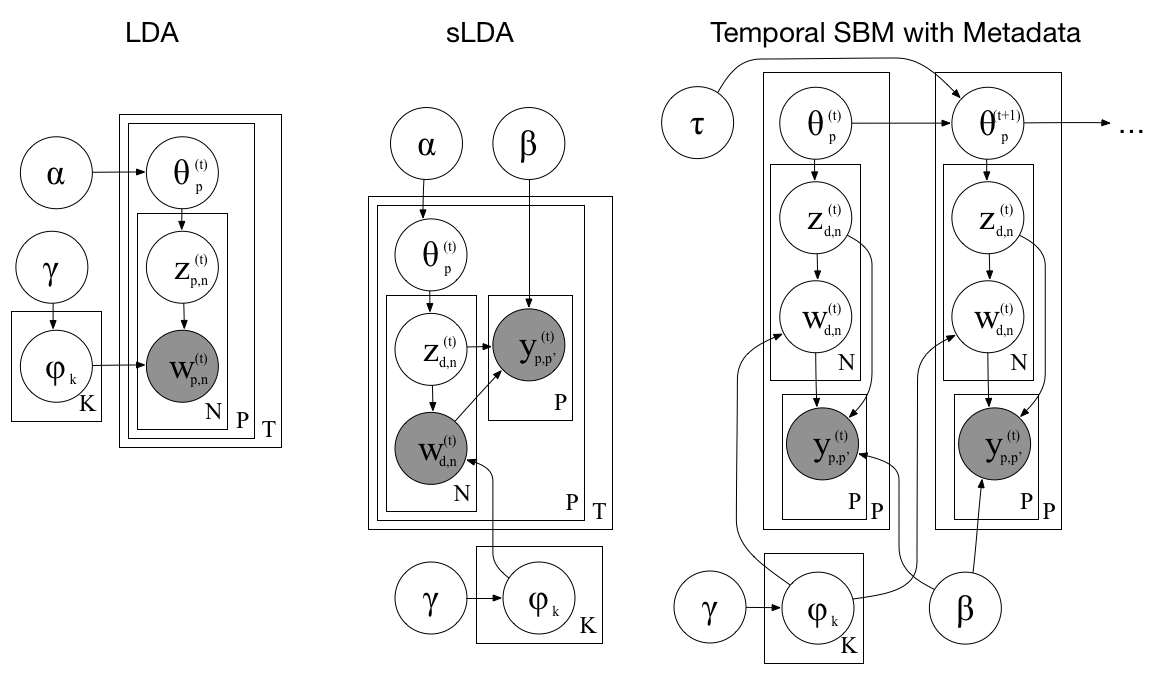
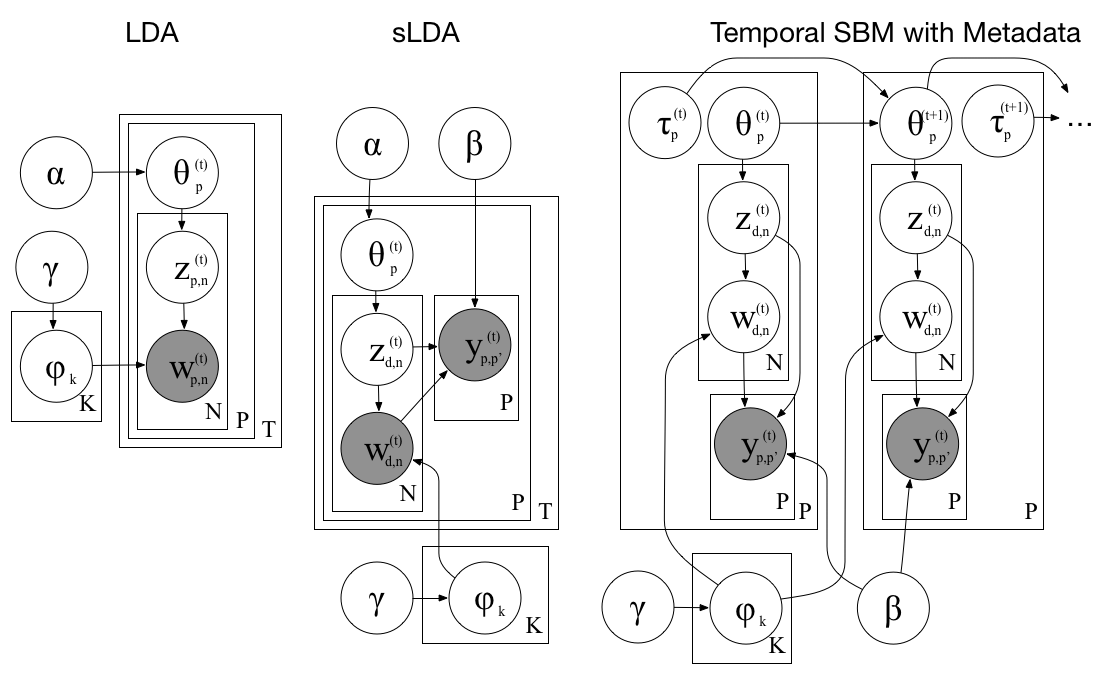
adding title

diff --git a/google/proposal.tex b/google/proposal.tex
@@ -13,14 +13,20 @@
 
 \begin{document}
 
+\begin{center}
+{\bf Predicting Betrayal in Online Games}
+\noindent\rule{2cm}{0.4pt}
+\end{center}
+
 The prisoner's dilemma is elegant in its simplicity: two
 prisoners---denied communication---must decide whether to cooperate
 with each other or defect.  This foundational thought experiment of
 game theory has helped understand many real world scenarios: \dots .
 Despite its power, the prisoner's dilemma is woefully unrealistic.
 Cooperation and betrayal do not happen in a cell cut off from the rest
-of the world.  Instead, it is mediated by communication: promises are
-made, then broken, and met with recriminations.
+of the world.  Instead, real interactions are mediated by
+communication: promises are made, then broken, and met with
+recriminations.
 
 We propose to study the role of \emph{language} in understanding
 betrayal and cooperation in the game of {\bf Diplomacy}.  Diplomacy,
@@ -54,7 +60,7 @@ probabilistic model to explain and predict the actions of players.
 Diplomacy begins in 1914 with players casting themselves as the
 European powers at the eve of the first world war: England, Germany,
 France, Russia, Austria, Italy, and the Ottoman Empire.  The goal of
-the game (like other wargames such as Risk or Axis \& Allies) is to
+the game (like other war games such as Risk or Axis \& Allies) is to
 capture all of the territories on the game board
 (Figure~\ref{fig:board}).  The game consists of two
 phases: \emph{diplomacy} and \emph{orders}.
@@ -63,7 +69,7 @@ phases: \emph{diplomacy} and \emph{orders}.
 \label{sec:mechanics}
 
 We begin with the order phase, which is more conventional.  In the
-order phase, each of the players write down their orders for their
+order phase, each of the players writes down their orders for their
 units (e.g., a unit can move to an adjacent square if it unoccupied).
 A player writes down all of the orders they want to execute.  For
 example, Germany may make the following moves:
@@ -74,10 +80,10 @@ example, Germany may make the following moves:
 \end{itemize*}
 
 The orders for all users are resolved through a set of rules that are
-beyond our scope.  The important elements of the game mechanics are:
-moves happen simulteneously, there is no randomness, and ties favor
-defenders.  To dislodge an opposing force, an attacker must have
-numerical superiority.
+beyond the scope of this document.  The important elements of the game
+mechanics are: moves happen simultaneously, there is no randomness,
+and ties favor defenders.  To dislodge an opposing force, an attacker
+must have numerical superiority.
 
 This is accomplished through units supporting each other.  An adjacent
 stationary movement can, in lieu of itself moving, can support the
@@ -91,17 +97,21 @@ supporting unit or supporting the attack).
 
 The nuances of support are important to players, but not particularly
 relevant for understanding how people cooperate and compete with each
-other.  The key idea is that sucessful moves need support, and it's
+other.  The key idea is that successful moves need support, and it's
 often impossible for a player to act on their own.  They need to get
-other players to help them accomplish their goals.  This requires
-cooperation and \emph{diplomacy}, which brings us to the second phase
-of the game.
+other players to help them accomplish their goals.  Because these
+orders are machine readable, we have a clear indication of when
+players are working together (supporting each other) or working
+against each other (attacking each other); we will use this to define
+a cooperation matrix in Section~\ref{sec:model}.  However,
+coordinating these actions between players requires cooperation and
+\emph{diplomacy}, which brings us to the second phase of the game.
 
 \subsection{Communication}
 
 In the \emph{diplomacy} phase of the game, players can talk to each
-other.  These conversations can either happen globally or (more
-typically) one-on-one.  Conversations include greetings, extra-game
+other.  These conversations can either happen globally or---more
+typically---one-on-one.  Conversations include greetings, extra-game
 discussions (e.g., ``did you see Game of Thrones?''), low-level
 strategy (``if you attack Armenia, I'll support you''), high-level
 strategy (``we need to capture central Europe'').
@@ -126,8 +136,8 @@ Diplomacy data.
 \section{Preliminary Analysis}
 
 We obtained several hundred complete games of Diplomacy from a two
-major online clearinghouses for games.  This includes not just the
-state of the games but the annonymous communications between players
+major online clearing houses for games.  This includes not just the
+state of the games but the anonymous communications between players
 (all player identities are unknown to both us and their fellow
 players).
 
@@ -194,7 +204,7 @@ this figure is that there are no odd parities; if a player has
 betrayed you once, they never ``stay true'' to the end of the game.
 
 Thus, a challenge for players and also for us as researchers is to
-predict when payback will happen.  Can we predict when one player will
+predict when pay-back will happen.  Can we predict when one player will
 ``stab'' (in the lingo of Diplomacy) another?
 
 \begin{figure}[tbh]
@@ -213,6 +223,7 @@ predict when payback will happen.  Can we predict when one player will
 \end{figure*}
 
 \section{Proposed Model for Understanding Betrayal and Cooperation}
+\label{sec:model}
 
 We propose a novel graphical model to capture the evolution of games
 and to predict what players will do.  This model combines supervised
@@ -249,12 +260,23 @@ between the topics in two player's interactions.
 
 Adding additional features can further improve prediction: adding
 word-level and temporal features can help predict whether players will
-be friend or foe.
+be friend or foe.  Thus, in addition to the topics that a player uses
+in a turn, we can also add features that represent specific words,
+aspects of the map, etc.
 
 \paragraph{Temporal Modeling}
 
 Finally, adding temporal models can help capture the evolution of
 players' communication patterns by adding the additional constraint
-that topics shouldn't change radically over time.
+that topics shouldn't change radically over time.  Thus, we can add a
+switch variable $\tau_p^{(t+1)}$ that indicates whether a distribution
+over topics has changed from time $t$ when player $p$ has a new topic
+distribution for a player $\theta_p^{(t)}$.
+
+We have previously used these models to indicate when people change
+what they're talking about.  Because of the joint dependence also on
+the relationships $y_{ij}$, we also hope that these segments will
+capture the subtle shifts in language the can help predict when
+players choose to betray each other.
 
 \end{document}
